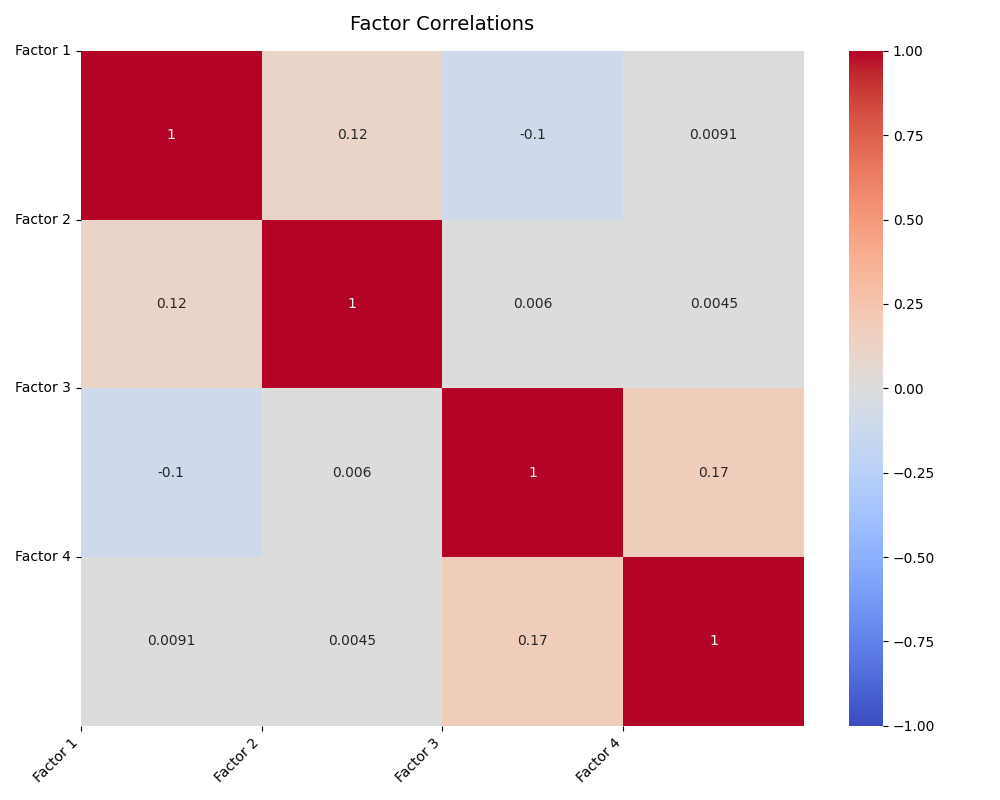
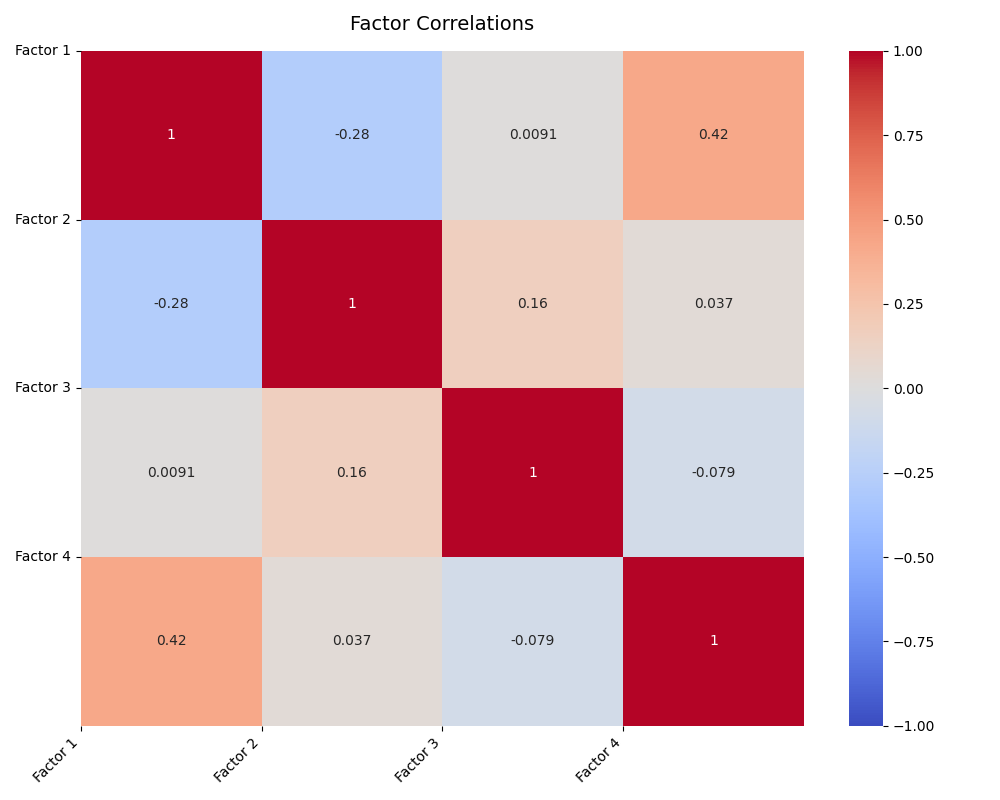
Added changes and factor interpretation for oblimax rotation and principal axis factor

diff --git a/cpfq_factor_analysis.py b/cpfq_factor_analysis.py
@@ -346,7 +346,7 @@ def perform_factor_analysis(cpfq_data: pd.DataFrame, cpfq_cols: List[str]) -> st
         corr_matrix = get_correlation_matrix(cpfq_data)
         
         # Perform factor analysis with 4 factors
-        fa = FactorAnalyzer(rotation='varimax', n_factors=4)
+        fa = FactorAnalyzer(rotation='oblimin', n_factors=4, method='principal')
         fa.fit(corr_matrix)
         
         # Get factor loadings
@@ -491,8 +491,8 @@ def perform_factor_analysis(cpfq_data: pd.DataFrame, cpfq_cols: List[str]) -> st
             results.append(format_loading(item, loading))
         
         # Factor 2
-        results.append('\nFactor 2 - "Emotional Acceptance & Present Moment" (13.07% of variance)')
-        results.append('This factor captures acceptance of emotions, cognitive defusion, and present-moment awareness.')
+        results.append('\nFactor 2 - "Emotional Awareness & Worry" (13.07% of variance)')
+        results.append('This factor represents heightened emotional/bodily awareness coupled with worry and self-judgment.')
         results.append('Strong positive indicators (sorted by loading strength):')
         for item, loading in factor2_pos:
             results.append(format_loading(item, loading))
@@ -501,8 +501,8 @@ def perform_factor_analysis(cpfq_data: pd.DataFrame, cpfq_cols: List[str]) -> st
             results.append(format_loading(item, loading))
         
         # Factor 3
-        results.append('\nFactor 3 - "Experiential Avoidance" (11.07% of variance)')
-        results.append('This factor represents worrying, emotional fusion, and bodily awareness.')
+        results.append('\nFactor 3 - "Cognitive Fusion" (11.07% of variance)')
+        results.append('This factor represents the extent to which thoughts control behavior and identity.')
         results.append('Strong positive indicators (sorted by loading strength):')
         for item, loading in factor3_pos:
             results.append(format_loading(item, loading))
@@ -512,8 +512,8 @@ def perform_factor_analysis(cpfq_data: pd.DataFrame, cpfq_cols: List[str]) -> st
                 results.append(format_loading(item, loading))
         
         # Factor 4
-        results.append('\nFactor 4 - "Self-as-Context vs. Fusion" (5.20% of variance)')
-        results.append('This factor represents the balance between cognitive fusion and maintaining a stable sense of self.')
+        results.append('\nFactor 4 - "Emotional Acceptance vs External Control" (5.20% of variance)')
+        results.append('This factor contrasts emotional acceptance with control by others and rigid rules.')
         results.append('Strong positive indicators (sorted by loading strength):')
         for item, loading in factor4_pos:
             results.append(format_loading(item, loading))
